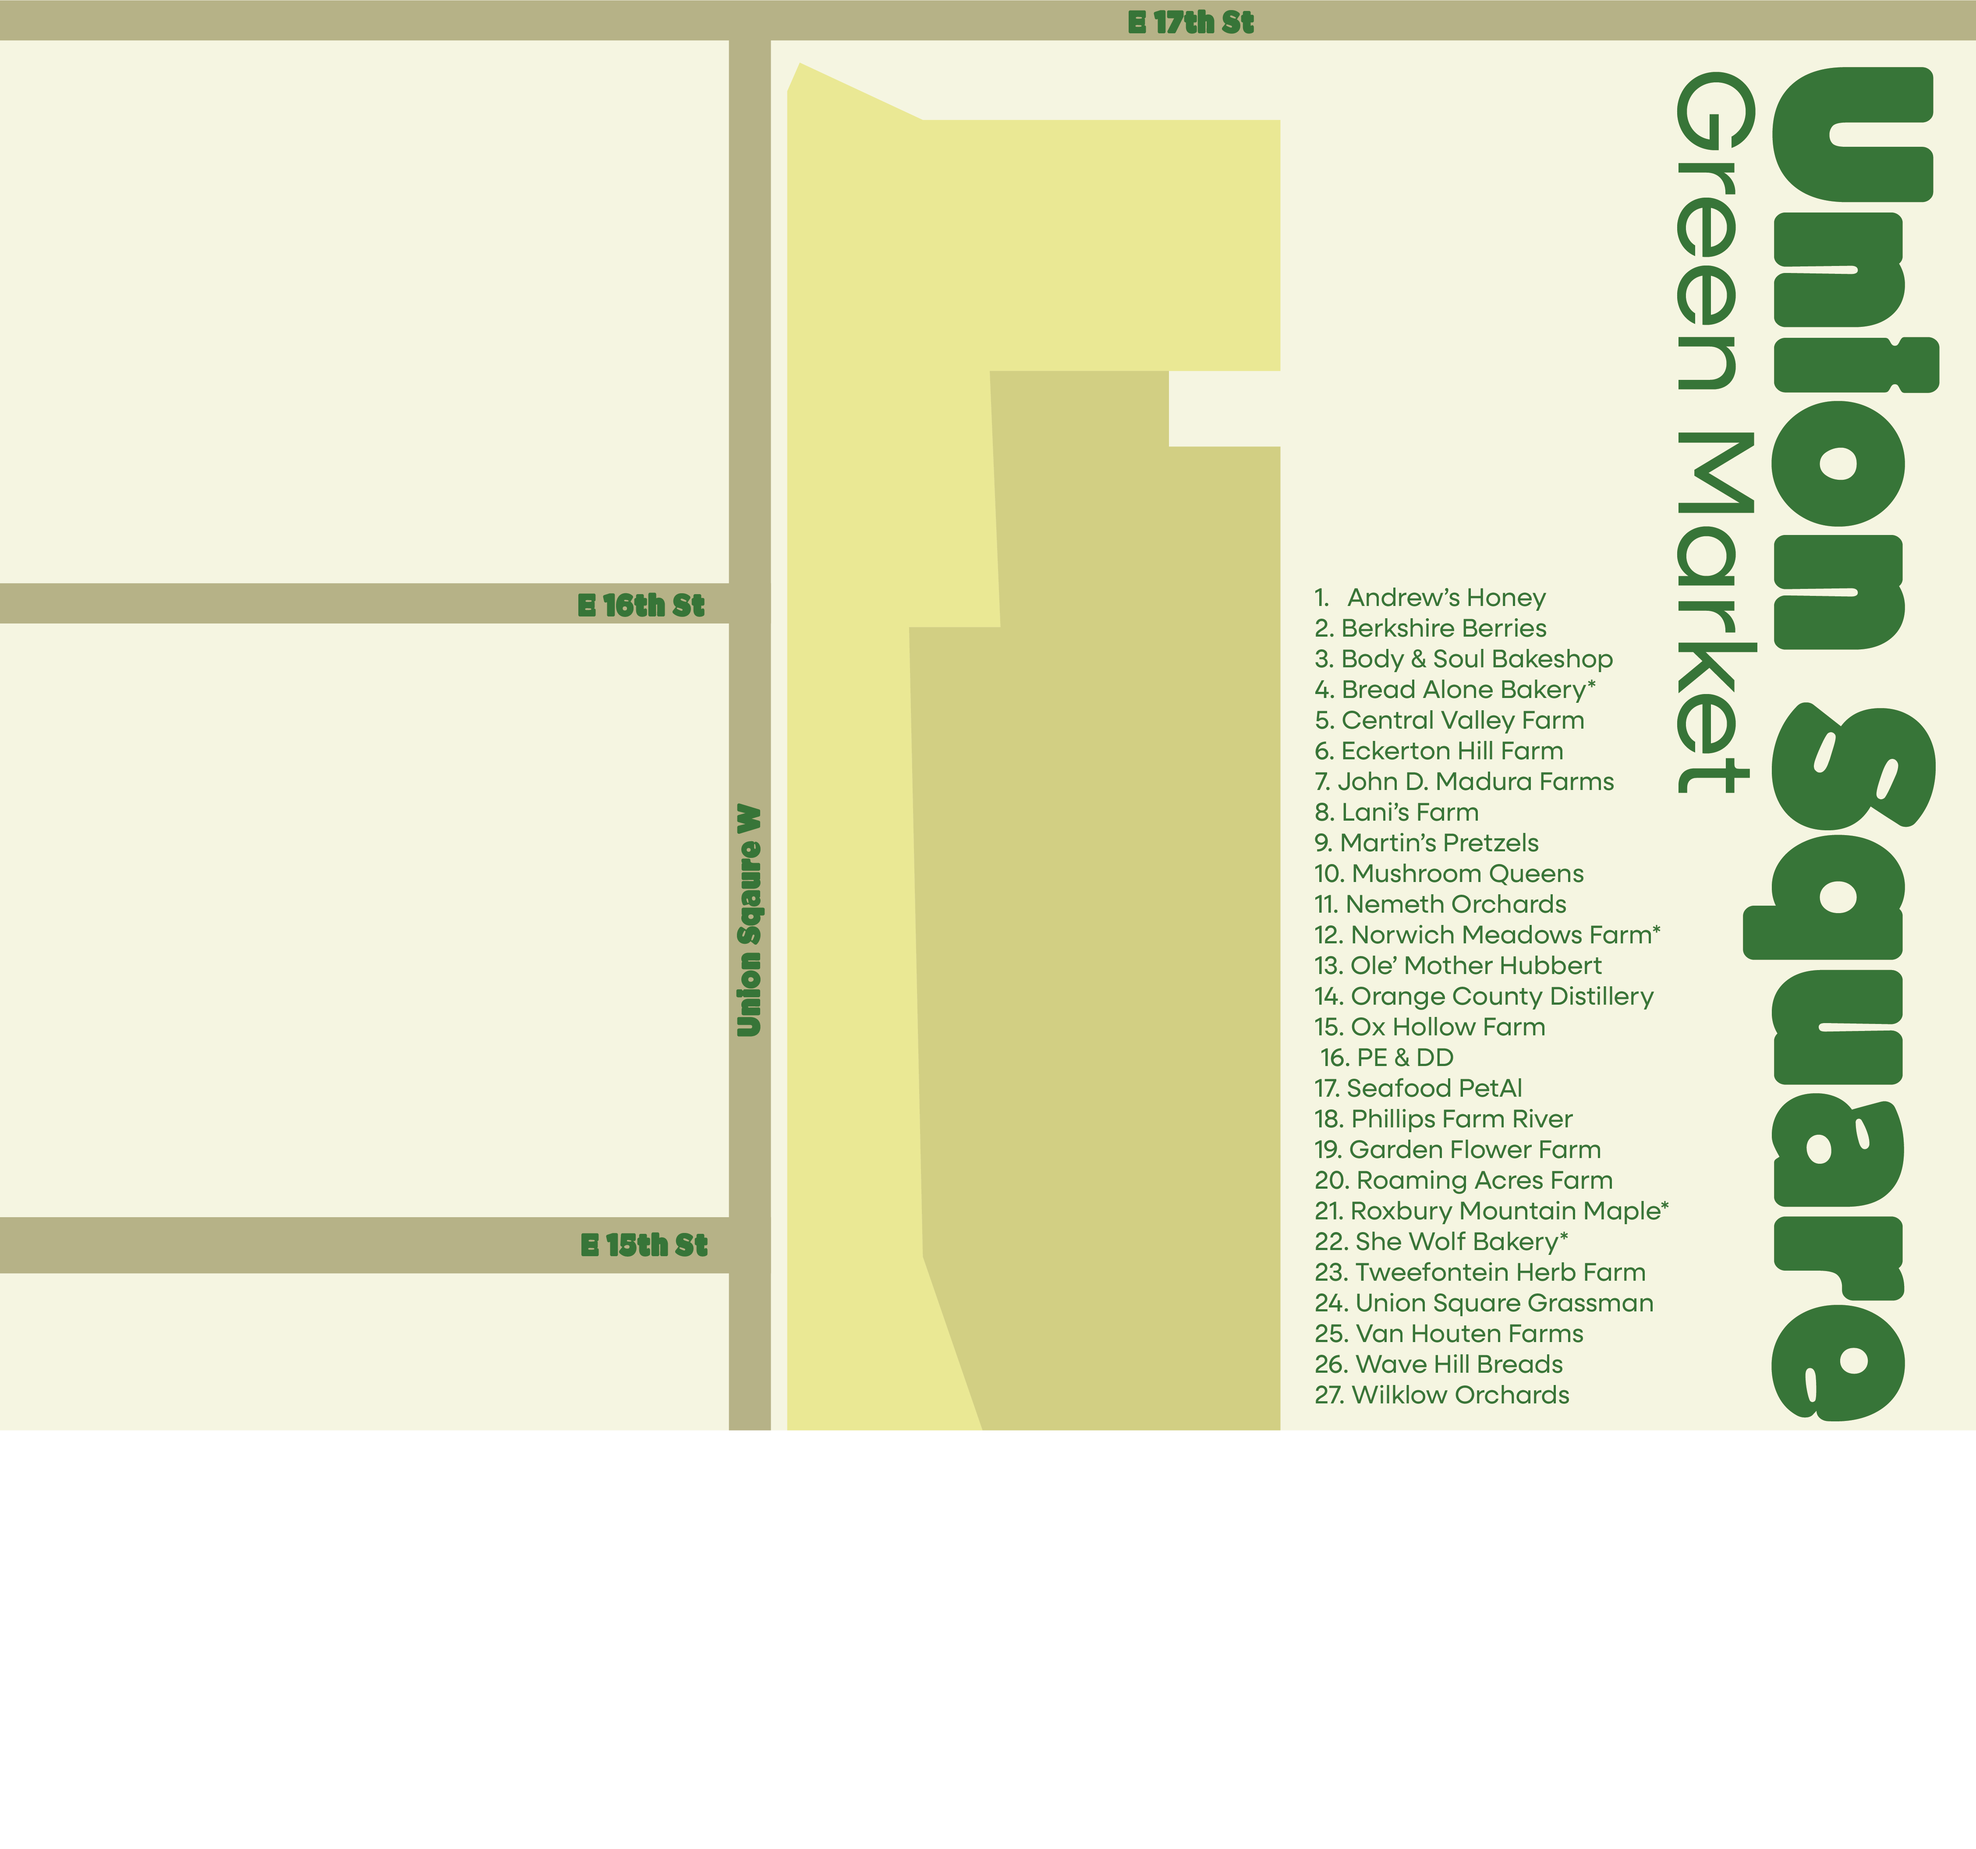
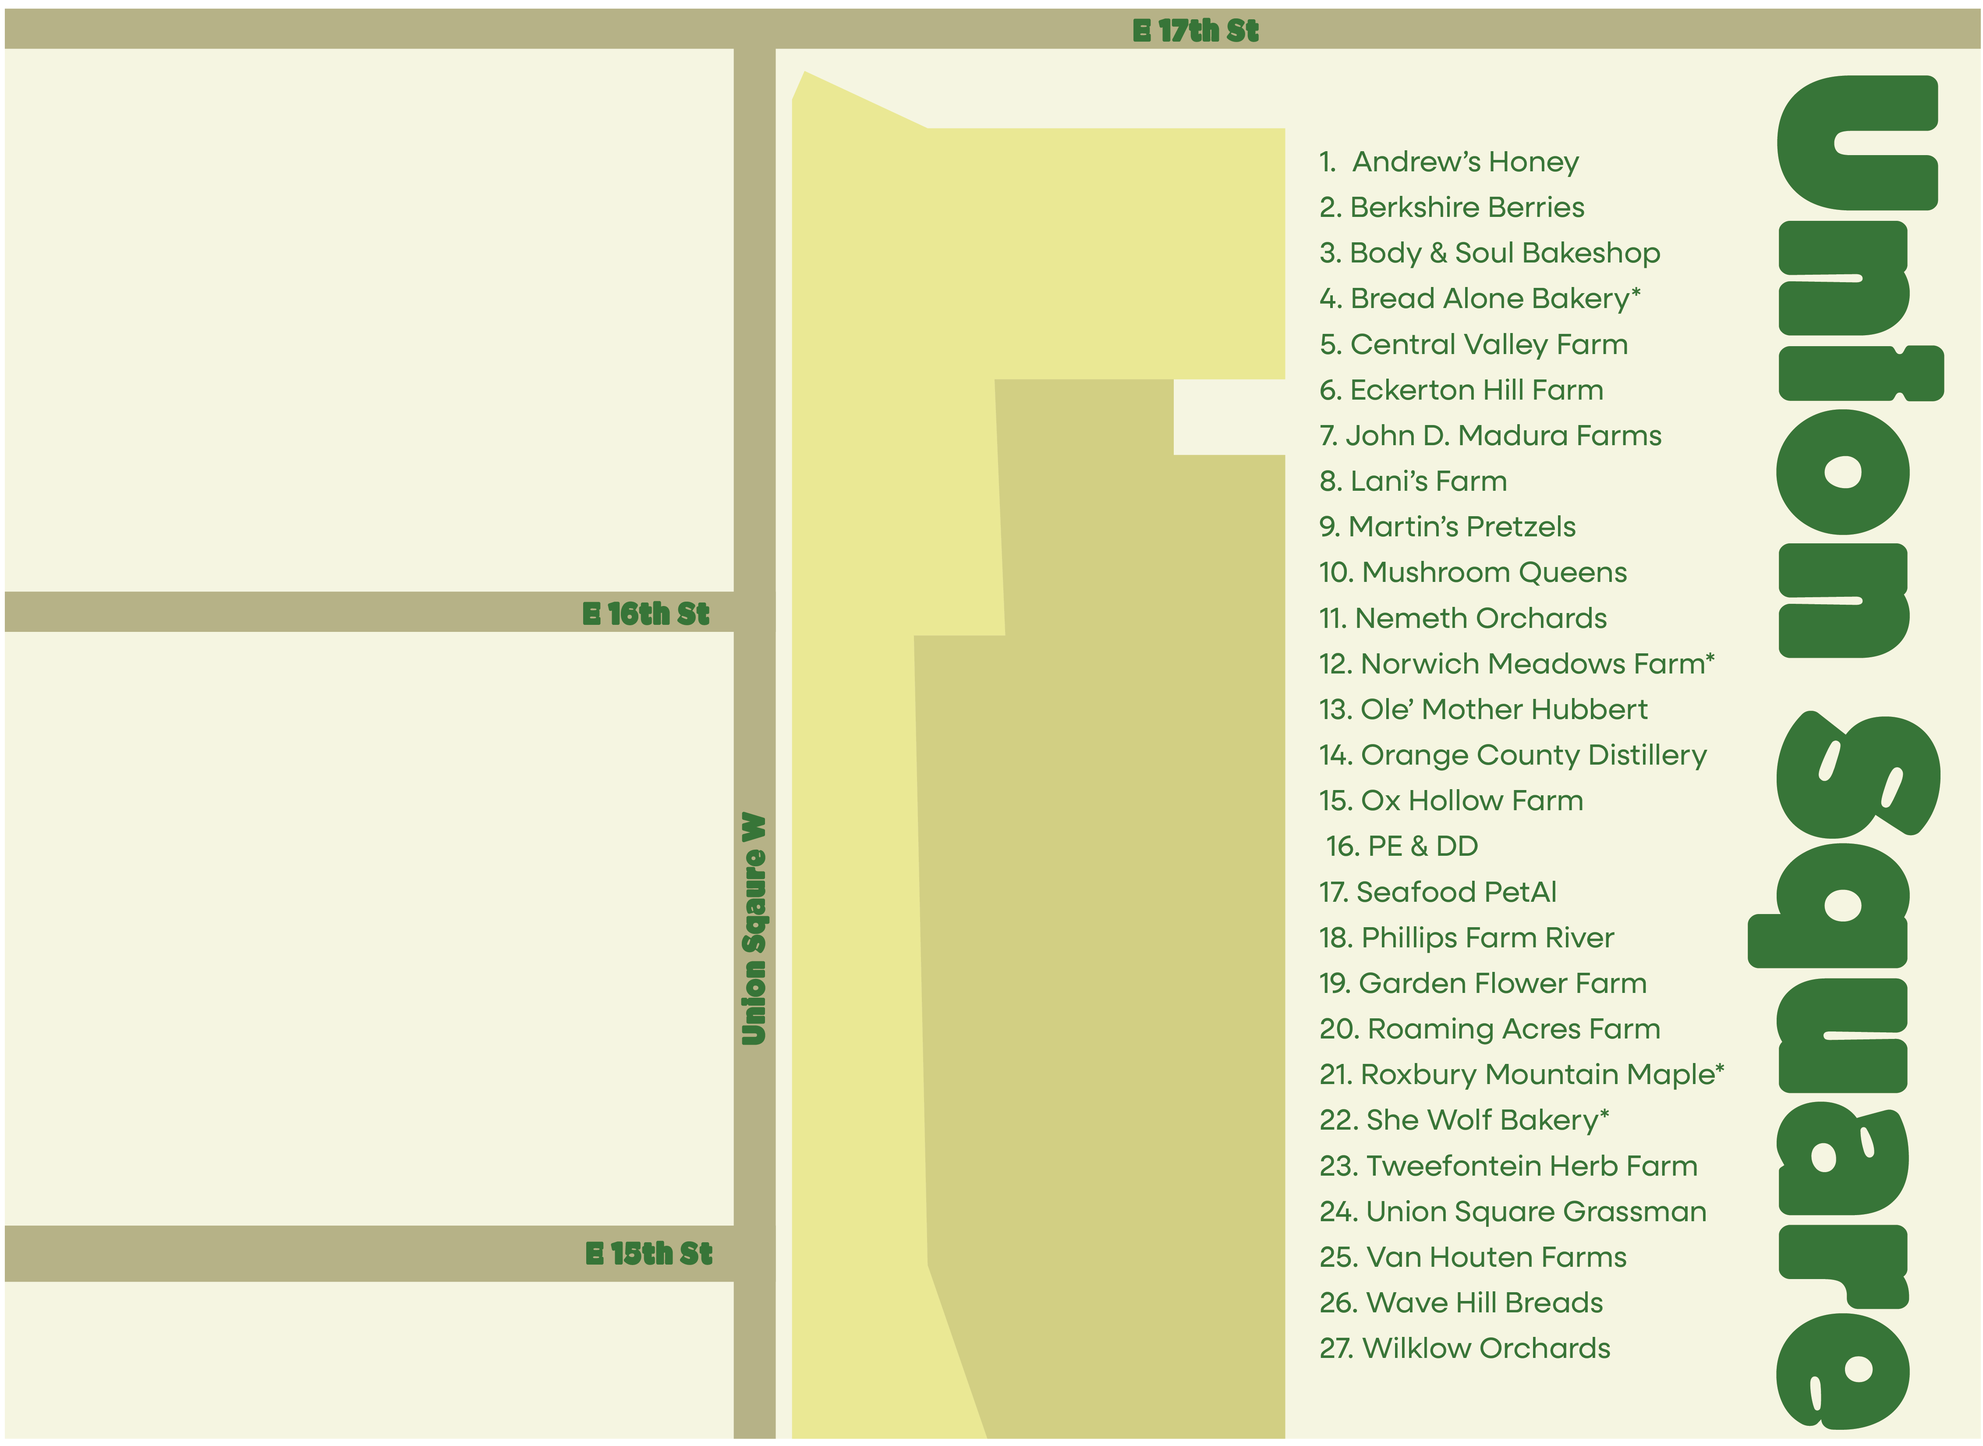
updates to all

diff --git a/index/monday.css b/index/monday.css
@@ -1,6 +1,15 @@
 body{
     background-color: #E5FDA4;
 }
+.home{
+    color: #f7cc08;
+    font-family: 'Raleway', sans-serif;
+    font-weight: 700;
+    font-size: 20px;
+    text-align: left;
+    margin-left: 30px;
+    margin-top: 100px;
+}
 h2{
     color: #527530;
     font-family: 'Raleway', sans-serif;
@@ -15,46 +24,70 @@ header{
     font-family: 'Raleway', sans-serif;
     font-weight: 700;
     font-size: 30px;
-    text-align: left;
-    margin-left: 30px;
+    text-align: center;
     margin-top: 50px;
+    margin-bottom: 30px;
 }
 .Uicon{
     width: 10%;
+}
+.star{
+    width: 4%;
     display: block;
     margin-left: auto;
     margin-right: auto;
 }
-
-.mapimg{
-    z-index: 1;
-}
 .mapcontainer{
-    margin: 30px;
-    width: auto;
-    height: 900px;
+    margin-left: auto;
+    margin-right: auto;
+    width: 80%;
     background-image: url(IMG/Map.png);
-    width: 1000px;
-    height: 1000px;
     background-size: contain;
     background-repeat: no-repeat;
     display: grid;
     grid-template-columns: repeat(24, 1fr);
     grid-template-rows: repeat(24,1fr);
-    z-index: 2;
 }
 .star1{
-    width: 80%;
+    width: 100%;
     grid-column-start: 12;
     grid-column-end: 13;
     grid-row-start: 10;
     grid-row-end: 11;
 }
 .star2{
-    width: 80%;
+    width: 100%;
     grid-column-start: 12;
     grid-column-end: 13;
     grid-row-start: 6;
     grid-row-end: 7;
+}
+.star3{
+    width: 100%;
+    grid-column-start: 12;
+    grid-column-end: 13;
+    grid-row-start: 5;
+    grid-row-end: 6;
+}
+.star4{
+    width: 100%;
+    grid-column-start: 12;
+    grid-column-end: 13;
+    grid-row-start: 13;
+    grid-row-end: 14;
+}
+.star5{
+    width: 100%;
+    grid-column-start: 11;
+    grid-column-end: 12;
+    grid-row-start: 3;
+    grid-row-end: 4;
+}
+.star6{
+    width: 100%;
+    grid-column-start: 11;
+    grid-column-end: 12;
+    grid-row-start: 11;
+    grid-row-end: 12;
 }
 

diff --git a/index/monday.html b/index/monday.html
@@ -1,0 +1,28 @@
+<!DOCTYPE html>
+<html lang="en">
+<head>
+    <link rel="stylesheet" href="monday.css">
+    <meta charset="UTF-8">
+    <meta name="viewport" content="width=device-width, initial-scale=1.0">
+    <title>Monday</title>
+    <style>
+        @import url('https://fonts.googleapis.com/css2?family=Raleway:wght@300;400;700&display=swap');
+     </style>
+        
+</head>
+<body>
+    <a class="home" href="homepage.html"><img class="Uicon" src="IMG/Uicon.png" alt=""></a>
+    <h2>Union Square Green Market</h2>
+    <img class="star" src="IMG/star.png" alt="">
+    <header>Monday</header>
+   <div class="mapcontainer">
+        <a class="star1" href="https://www.andrewshoney.com/"><img class="star1" src="IMG/star1.png" alt=""></a>
+        <a class="star2" href="https://www.berkshireberries.com/"><img class="star2" src="IMG/star2.png" alt=""></a>
+        <a class="star3" href="https://www.bodyandsoulbakeshop.com/"><img class="star3" src="IMG/star3.png" alt=""></a>
+        <a class="star4" href="https://www.breadalone.com/"><img class="star4" src="IMG/star4.png" alt=""></a>
+        <a class="star5" href="http://www.centralvalleyfarm.com/markets.html"><img class="star5" src="IMG/star5.png" alt=""></a>
+        <a class="star6" href="https://eckertonhillfarm.com/"><img class="star5" src="IMG/star6.png" alt=""></a>
+</div>
+
+</body>
+</html>

diff --git a/index/homepage.css b/index/homepage.css
@@ -1,0 +1,52 @@
+body{
+    background-color: #B1EA4C ;
+}
+.Uicon{
+    display: block;
+    margin-left: auto;
+    margin-right: auto;
+}
+h2{
+    color: rgb(49, 128, 0);
+    font-family: 'Raleway', sans-serif;
+    font-weight: 700;
+    font-size: 20px;
+    text-align: center;
+    margin-top: 50px;
+}
+.pic{
+    display: block;
+    margin-left: auto;
+    margin-right: auto;
+    width: 20%;
+    border: solid green;
+    border-width: 10px;
+}
+.days{
+    width: 400px;
+    background-color:  rgb(49, 128, 0);
+    padding: 5px;
+    color: rgb(247, 245, 239);
+    font-family: 'Raleway', sans-serif;
+    font-weight: 700;
+    font-size: 20px;
+    text-align: center;
+    margin-top: 50px;
+}
+.container{
+    margin-top: 20px;
+    display: grid;
+    grid-template-columns: repeat(4,1fr);
+    margin-bottom: 20px;
+    align-items: center;
+    place-items: center;
+    place-content: center;
+}
+h3{
+    color: rgb(49, 128, 0);
+    font-family: 'Raleway', sans-serif;
+    font-weight: 700;
+    font-size: 20px;
+    text-align: center;
+    margin-top: 50px;
+}

diff --git a/index/homepage.html b/index/homepage.html
@@ -1,0 +1,25 @@
+<!DOCTYPE html>
+<html lang="en">
+<head>
+    <link rel="stylesheet" href="homepage.css">
+    <meta charset="UTF-8">
+    <meta name="viewport" content="width=device-width, initial-scale=1.0">
+    <style>
+        @import url('https://fonts.googleapis.com/css2?family=Raleway:wght@300;400;700&display=swap');
+     </style>
+    <title>homepage</title>
+</head>
+<body>
+    <div class="container">
+        <a class="days" href="monday.html">Monday</a>
+        <a class="days" href="wednesday.html">Wednesday</a>
+        <a class="days" href="friday.html">Friday</a>
+        <a class="days" href="saturday.html">Saturday</a>   
+    </div>
+    <img class="Uicon" src="IMG/Uicon.png" alt="">
+    <h2>Union Square Green Market</h2>
+    <img class="pic" src="IMG/pic.png" alt="">
+    <h3>Get to know the vendors that bring you the freshest produce</h3>
+
+</body>
+</html>
